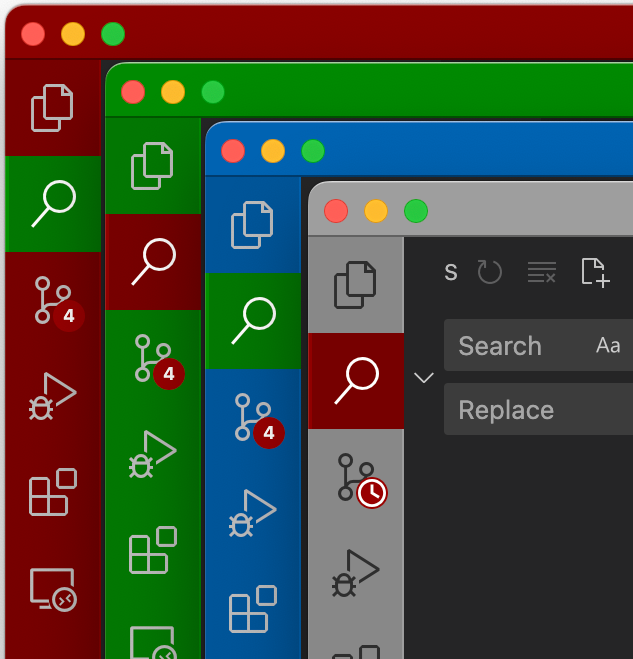
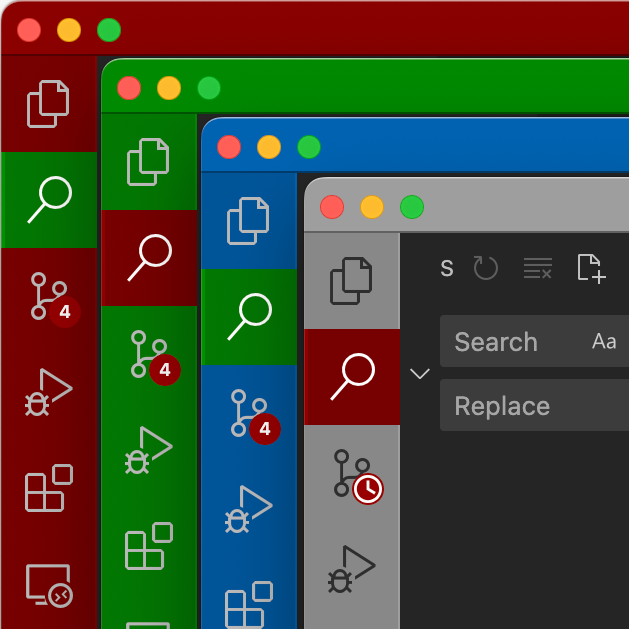
doc: update README and images

diff --git a/src/extension.ts b/src/extension.ts
@@ -63,6 +63,8 @@ const BRANCH_MAP = new Map<string, string>([
   ['hotfix', 'red'],
   ['release', 'fuchsia'],
   ['refactor', 'olive'],
+  ['test', 'lime'],
+  ['spec', 'lime'],
   ['experiment', 'violet'],
   ['experimental', 'violet'],
   ['chore', 'silver'],

diff --git a/README.md b/README.md
@@ -1,12 +1,16 @@
 # Color! Extension
 
-Add colors to your VS Code windows, workspaces, and `git worktree`s!
-A smaller, better open-source alternative to the `Window Colors` and `Peacock` extensions.
+Add color accents to your VS Code windows, workspaces, and `git worktree`s!
+A smaller, better open-source alternative to the `Window Colors` and `Peacock` extensions:
 
-![Some of the Color! accents](images/color.png)
+1. **Tiny:** less than 300 lines of code.
+2. **Subtle:** changes just the activity and title bar, keeping the rest of the UI intact.
+3. **Deterministic:** Automatically assigns a unique color to each workspace based on its URI.
+4. **Intelligent:** Assigns specific colors if explicitly requested in the folder name (e.g., `my-project-red` or `my-other-project.blue`). Also recognizes branch or context keywords in workspace URIs, ensuring paths like `my-project-main` and `my-project-test` automatically receive distinct colors.
+5. **Customizable:** Not a fan of the automatic selection? Easily override it using the `Color!: Pick a workspace color` command. Simply choose the `custom` option from the dropdown to input your own user-defined exact hex color.
 
-1. **Deterministic Color Assignment:** Automatically assigns a unique color to each workspace based on its URI.
-2. **Intelligent Path Recognition:** Recognizes path suffixes to assign specific colors. For instance, `git worktree` directories like `main` and `test` will get distinct colors.
+<img src="images/color.png" width="49%" alt="Some of the workspace Color! accents">
+<img src="images/pick.png" width="49%" alt="Pick your color!">
 
 ## Quick Start
 
@@ -15,41 +19,33 @@ A smaller, better open-source alternative to the `Window Colors` and `Peacock` e
 
 ## Frequently Asked Questions
 
-### The extension is not working and the color isn't changing
+### 1. The extension is not working and the color isn't changing
 
 This usually happens when a workspace URI is unavailable. Please open a folder or a workspace and try again.
 
-### My `.vscode/settings.json` file is getting modified all the time
+### 2. My `.vscode/settings.json` file is getting modified all the time
 
-VS Code stores per-window color settings either in the workspace configuration file (e.g., `my_workspace.code-workspace`) or directly inside the folder (e.g., `my_folder/.vscode/settings.json`).
+VS Code stores per-window color settings either in the workspace configuration file (e.g., `my_project.code-workspace`) or directly inside the folder (e.g., `my_project/.vscode/settings.json`).
 
-If your `my_folder/.vscode/settings.json` file is tracked by a version control system like Git, it is best practice to save your workspace outside of `my_folder` using `File > Save Workspace As...`, like this:
+If your `my_project/.vscode/settings.json` file is tracked by a version control system like Git, it is best practice to save your workspace outside of `my_project` folder using `File > Save Workspace As...`, like this:
 
 ```text
-my_workspace.code-workspace
-my_folder/
-    .git
+my_project.code-workspace
+my_project/
     .vscode/
         settings.json
-    src/
     [...]
 ```
 
-Note: The `my_workspace.code-workspace` file should not be tracked by Git and should live outside of the project folder (or be explicitly added to your `.gitignore` file).
+Note: The `my_project.code-workspace` file should not be tracked by Git and should live outside of the project folder (or be explicitly added to your `.gitignore` file).
 
-Now, when you open `my_workspace.code-workspace`, all window color preferences will be safely stored there, and any local `.vscode/settings.json` color modifications will be avoided.
+Now, when you open `my_project.code-workspace`, all window color preferences will be safely stored there, and any local `.vscode/settings.json` color modifications will be avoided.
 
-### My `.code-workspace` file is getting modified all the time
+### 3. My `.code-workspace` file is getting modified all the time
 
 Save your workspace locally under a different name outside of your tracked folders, or add it directly to your `.gitignore`.
 
-See the question above for more structural details.
-
-## Features
-
-1. It just works: By default, it deterministically selects an accent color based on the workspace URI. The extension takes into account the workspace suffix (e.g., `my-workspace-red`) or uses the full URI to calculate the color.
-2. It's customizable: Easily override the automatic color by using the `Color!: Pick a workspace color` command.
-3. Endless customization: Pick your favorite custom hex or named color by selecting `Color!: Pick a workspace color > Custom`.
+See the question above for more details.
 
 ## Extension Settings
 
